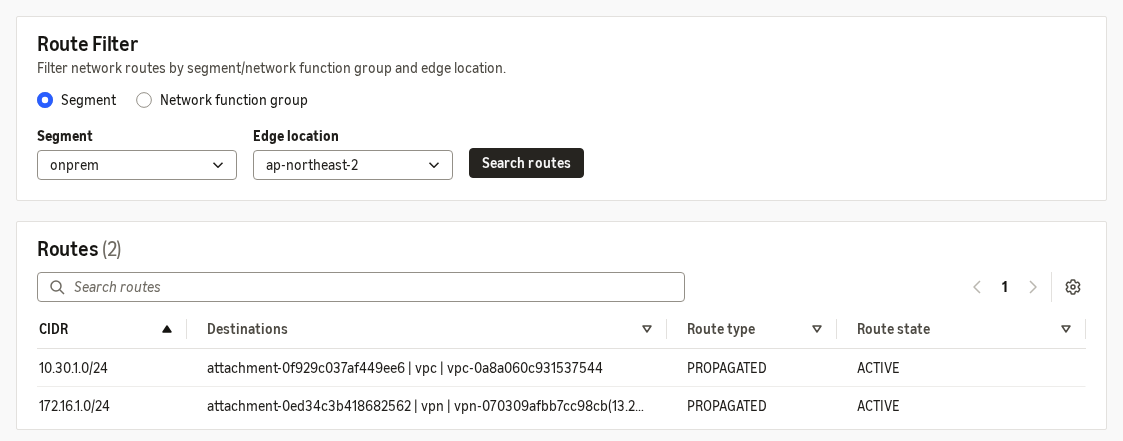
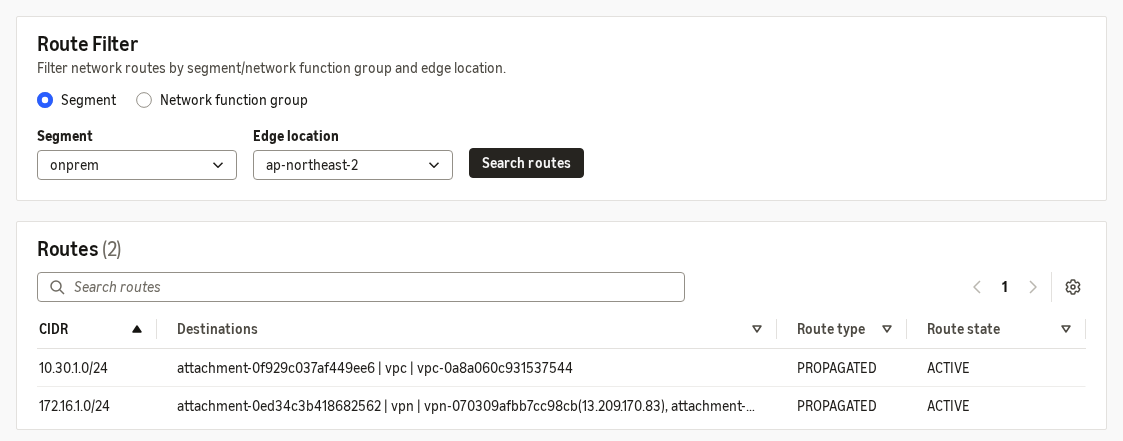
Measure the 2-4 policy change and print what it opened
The change set is ready in 38 seconds and executes in about a minute, so the
pages say that instead of promising a measurement - and 2-4 stays a hands-on
step rather than a demonstration. One share line produced seven changes, three
of them route propagations including the Oregon attachment nobody touched,
which is what makes "a policy line applies in both Regions" concrete. After the
execution the same pings that failed in 2-3-f answer, and dev still does not.

Claude-Session: https://claude.ai/code/session_019PvznuDZaZguvoDVdVkBrg

diff --git a/tools/shots/eic-connect.py b/tools/shots/eic-connect.py
@@ -1,0 +1,70 @@
+"""The EC2 "Connect to instance" screen, for the steps that open a terminal.
+
+    AWS_PROFILE=demo1 AWS_REGION=ap-northeast-2 CWAN_INSTANCE=i-... \
+      CWAN_SHOT=lab1-eic-01-connect \
+      uv run --with playwright --with boto3 python tools/console.py \
+      tools/shots/eic-connect.py
+
+Read-only: it stops at the form and never presses Connect. The pages disagree
+about the tab's name - 2-2-b says "In web browser", 2-3-c says "EC2 Instance
+Connect" - so this prints the tab list and the page can then say the real one.
+"""
+import os
+
+INSTANCE = os.environ.get("CWAN_INSTANCE", "")
+NAME = os.environ.get("CWAN_SHOT", "eic-connect")
+WAIT = 7000
+
+
+def body(f):
+    try:
+        return f.locator("body").inner_text()
+    except Exception:
+        return ""
+
+
+def heads(f):
+    try:
+        return [h.strip() for h in f.get_by_role("heading").all_inner_texts() if h.strip()][:16]
+    except Exception:
+        return []
+
+
+goto(f"/ec2/home?region={REGION}#InstanceDetails:instanceId={INSTANCE}")
+page.wait_for_timeout(WAIT)
+f = app()
+print("DETAIL headings:", heads(f))
+
+btn = f.get_by_role("button", name="Connect", exact=True)
+if not btn.count():
+    btn = f.get_by_role("link", name="Connect", exact=True)
+print("Connect buttons:", btn.count())
+if btn.count():
+    btn.last.click()
+    page.wait_for_timeout(WAIT)
+
+f = app()
+tabs = [x.strip() for x in f.get_by_role("tab").all_inner_texts() if x.strip()]
+print("CONNECT TABS:", tabs)
+print("headings:", heads(f))
+print("body:", body(f)[:800].replace("\n", " | "))
+
+# Whichever of these the console calls it, land on the browser-terminal tab.
+for want in ("EC2 Instance Connect", "In web browser", "Instance Connect"):
+    tb = f.get_by_role("tab", name=want, exact=True)
+    if tb.count():
+        tb.first.click()
+        page.wait_for_timeout(3000)
+        print("clicked tab:", want)
+        break
+
+f = app()
+for h in ("Connect to instance", "EC2 Instance Connect", "Instance ID"):
+    c = panel(h, frame=f)
+    if c is not None:
+        shot(NAME, clip=c)
+        print(f"shot cropped to {h!r}")
+        break
+else:
+    print("!! no panel matched, keeping the whole window")
+    shot(NAME)

diff --git a/tools/policy.py b/tools/policy.py
@@ -38,8 +38,12 @@ CN = core_network_id()
 
 
 def live_policy() -> dict:
+    """The LIVE policy. PolicyDocument comes back as JSON text, not a mapping."""
     p = nm.get_core_network_policy(CoreNetworkId=CN, Alias="LIVE")["CoreNetworkPolicy"]
-    return {"version": p["PolicyVersionId"], "doc": p["PolicyDocument"]}
+    doc = p["PolicyDocument"]
+    if isinstance(doc, str):
+        doc = json.loads(doc)
+    return {"version": p["PolicyVersionId"], "doc": doc}
 
 
 def put(doc: dict, description: str) -> int:

diff --git a/docs/lab3.md b/docs/lab3.md
@@ -65,14 +65,25 @@
 3. 의도하지 않은 항목(세그먼트 삭제 등)이 없는지 확인합니다.
 
 !!! info "이 단계에서는 아직 반영되지 않습니다"
-    정책 버전은 만들기만 해서는 배포되지 않습니다. 다음 단계에서 change set을 실행해야 적용됩니다. 그전까지 통신 범위는 그대로입니다.
+    정책 버전은 만들기만 해서는 배포되지 않습니다. 다음 단계에서 change set을 실행해야 적용됩니다. 그전까지 통신 범위는 그대로입니다. 사전 테스트에서 버전을 만들고 **Ready to execute** 가 된 상태로 온프레미스 VM에서 prod로 ping을 해 봤더니 그대로 `100% packet loss` 였습니다.
+
+    change set이 **Ready to execute** 가 되기까지는 사전 테스트에서 **38초** 걸렸습니다. 그동안 상태는 `Pending generation` 입니다.
 
 !!! tip "세그먼트를 추가·삭제하거나 격리 옵션을 바꿀 때"
     세그먼트를 추가·삭제하거나 격리 옵션을 바꾸면 그 세그먼트의 모든 edge에 작업이 생깁니다. 이번 변경은 share 추가입니다.
 
 <!-- shot: lab3-policy-03-changeset -->
 
-**성공 확인**: change set 목록에 `onprem`과 `prod` 사이의 변경이 보입니다. 상태는 **Ready to execute**입니다.
+`share` 한 줄을 넣었을 뿐인데 사전 테스트에서는 변경이 **7건** 나왔습니다. 무엇이 바뀌는지 읽어 보면 이렇습니다.
+
+| 종류 | 개수 | 내용 |
+|---|---|---|
+| `CORE_NETWORK_SEGMENT` `MODIFY` | 4 | 세그먼트 네 개의 정의가 바뀝니다. 공유 관계는 세그먼트 설정의 일부라서 `onprem` 과 `prod` 만이 아니라 네 개가 모두 비교 대상에 들어옵니다 |
+| `ATTACHMENT_ROUTE_PROPAGATION` `ADD` | 3 | 경로가 새로 전파되는 연결입니다. VPN attachment 하나(온프레미스 대역이 `prod` 로 들어감), 그리고 서울 prod와 오레곤 prod attachment 둘(두 대역이 `onprem` 으로 들어감) |
+
+**정책 한 줄이 리전 양쪽에 동시에 적용된다**는 것이 여기서 보입니다. 오레곤 prod attachment는 여러분이 따로 건드리지 않았는데 목록에 들어 있습니다.
+
+**성공 확인**: change set에 `ATTACHMENT_ROUTE_PROPAGATION` `ADD` 가 보이고, 그중에 VPN attachment와 prod attachment들이 들어 있습니다. 세그먼트를 지우거나 만드는 항목은 없습니다.
 
 ## 2-4-c. change set 실행하기 { #lab3-c }
 
@@ -82,7 +93,7 @@ change set을 실행해 새 버전을 적용합니다.
 2. 상태가 **Ready to execute** → **Executing policy** → **Execution succeeded**로 바뀌는 것을 지켜봅니다.
 3. 새 정책이 **LIVE**가 되었는지 확인합니다.
 
-반영에 걸리는 시간은 사전 테스트에서 측정합니다. 상태가 **Executing policy**에 머무르는 동안에는 다음 단계로 가지 말고 기다립니다.
+반영은 사전 테스트에서 **약 1분** 걸렸습니다. 상태가 **Executing policy** 에 머무르는 동안에는 다음 단계로 가지 말고 기다립니다.
 
 <!-- shot: lab3-policy-04-executing -->
 <!-- shot: lab3-policy-05-live -->
@@ -105,9 +116,21 @@ change set을 실행해 새 버전을 적용합니다.
     ping -c 4 10.11.1.10
     ```
 
-<!-- shot: lab3-policy-06-ping-prod -->
+사전 테스트에서 나온 출력입니다.
 
-**성공 확인**: 두 ping 모두 응답이 오고 **0% packet loss**입니다. 오레곤은 따로 설정하지 않았는데도 함께 열렸습니다. 정책이 `prod` 세그먼트 전체에 적용되기 때문입니다.
+```text
+$ ping -c 5 10.10.1.10            # 서울 prod
+5 packets transmitted, 5 received, 0% packet loss, time 4005ms
+rtt min/avg/max/mdev = 3.043/4.455/7.496/1.780 ms
+
+$ ping -c 5 10.11.1.10            # 오레곤 prod
+5 packets transmitted, 5 received, 0% packet loss, time 4006ms
+rtt min/avg/max/mdev = 123.230/123.789/125.858/1.035 ms
+```
+
+**성공 확인**: 두 ping 모두 응답이 오고 **0% packet loss**입니다. 조금 전 [2-3-f](lab2.md#lab2-f)에서 `100% packet loss` 였던 그 명령입니다. 바뀐 것은 정책 한 줄뿐입니다.
+
+오레곤은 따로 설정하지 않았는데도 함께 열렸습니다. 정책이 `prod` 세그먼트 전체에 적용되기 때문이고, [2-4-b](#lab3-b)의 change set에 오레곤 prod attachment가 들어 있던 것이 그 예고였습니다. 왕복 123밀리초는 온프레미스에서 서울을 거쳐 오레곤까지 간 거리입니다.
 
 3. dev EC2로 ping을 보냅니다. 고객 요구사항대로 실패해야 합니다.
 
@@ -117,7 +140,14 @@ change set을 실행해 새 버전을 적용합니다.
 
 **결과(실패가 맞습니다)**: **100% packet loss**입니다. `onprem`과 `dev` 사이에는 share가 없습니다.
 
-<!-- shot: lab3-policy-07-ping-dev -->
+```text
+PING 10.20.1.10 (10.20.1.10) 56(84) bytes of data.
+
+--- 10.20.1.10 ping statistics ---
+3 packets transmitted, 0 received, 100% packet loss, time 2108ms
+```
+
+**같은 터널로 prod는 되고 dev는 안 됩니다.** 고객 요구사항이 정확히 그것이었고, 정책의 `share-with` 에 `prod` 만 적고 `dev` 를 적지 않은 결과입니다.
 
 prod ↔ dev도 여전히 막혀 있습니다. 서울 prod EC2에서 dev EC2 `10.20.1.10`으로 ping을 보내 확인해 보세요(2-2에서 쓴 방법과 같습니다). 이쪽도 **결과(실패가 맞습니다)**입니다.
 

diff --git a/PLAN.md b/PLAN.md
@@ -594,6 +594,15 @@ STATE: PENDING cannot be modified by ACTION: DELETE
 | **21:19:17** | **core network `AVAILABLE`, 정책 1 `LIVE`/`EXECUTION_SUCCEEDED` — 15분 14초** |
 | 21:22~21:25 | 서울 VPC attachment 3개 `CREATING` → `PENDING_NETWORK_UPDATE` → `AVAILABLE`. 관측 시작부터 2분 48초 |
 | 21:24 | 서울 스택 `CREATE_COMPLETE` (시작부터 약 21분) |
+| 21:38~21:42 | 오레곤 prod VPC attachment: 콘솔로 생성, **4분 15초** 만에 `AVAILABLE` |
+| 21:50~21:54 | Site-to-Site VPN attachment: **3분 30초** 만에 `AVAILABLE` |
+| 21:54 | `setup-tunnels.sh` 실행. 끝났을 때 이미 IPsec 2개 `ESTABLISHED`, BGP 이웃 2개 연결, `10.30.1.0/24` 수신 |
+| 22:00:50 | 정책 버전 2 생성 |
+| **22:01:28** | **change set `READY_TO_EXECUTE` — 38초** |
+
+통신 확인은 모두 `tools/ec2run.sh` 로 실제 출력을 받아 문서에 넣었다. 서울 prod→dev `100% packet loss`, prod→shared `0%` 약 1.1ms, prod→오레곤 prod `0%` 약 116ms, 온프레미스→shared `0%` 약 2.7ms, 온프레미스→prod `100%`.
+
+**정책 버전을 만들기만 해서는 아무것도 바뀌지 않는다.** 버전 2가 `READY_TO_EXECUTE` 인 상태에서 온프레미스→prod ping이 그대로 `100% packet loss` 였다. 2-4-b의 설명을 실측으로 확인했다.
 
 core network 생성은 1차 14분 12초, 2차 15분 14초다. **두 번 모두 공식 문서 상한(30분)의 절반 근처**이고, 이론 강의 1시간 안에 끝난다는 진행표 전제가 두 번 확인됐다.
 

diff --git a/docs/lab2.md b/docs/lab2.md
@@ -185,7 +185,8 @@ BGP routing table entry for 172.16.1.0/24, version 1
 
 **성공 확인**
 
-- `onprem` 세그먼트에 `10.30.1.0/24`(shared)가 있습니다. `10.10.1.0/24`(prod)는 **없습니다**.
+- `onprem` 세그먼트에 경로가 **2개뿐**입니다. `10.30.1.0/24`(shared)와 자기 대역 `172.16.1.0/24` 입니다. `10.10.1.0/24`(prod)는 **없습니다**.
+- `172.16.1.0/24` 의 **Destinations** 는 `attachment-… | vpn | vpn-…` 입니다. VPN attachment를 통해 들어온 경로라는 뜻이고, 괄호 안은 AWS 쪽 터널 주소입니다.
 - `shared` 세그먼트에 `172.16.1.0/24`(온프레미스)가 있습니다. **Route type** 이 `PROPAGATED`, **Route state** 가 `ACTIVE` 이고 **Destinations** 는 VPN attachment입니다. 온프레미스 라우터가 BGP로 광고한 대역이 Cloud WAN까지 전파된 것입니다.
 
 !!! info "이 두 줄이 다음 두 소절의 답입니다"
